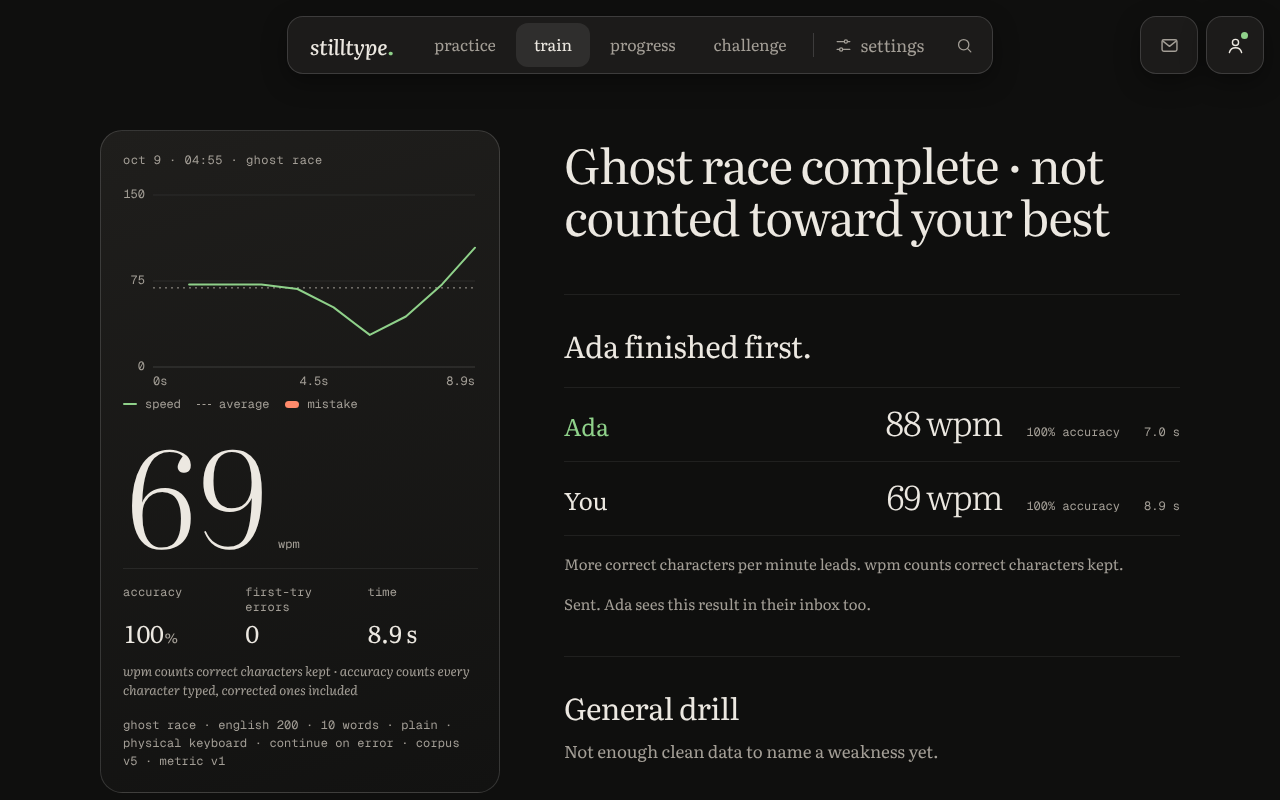
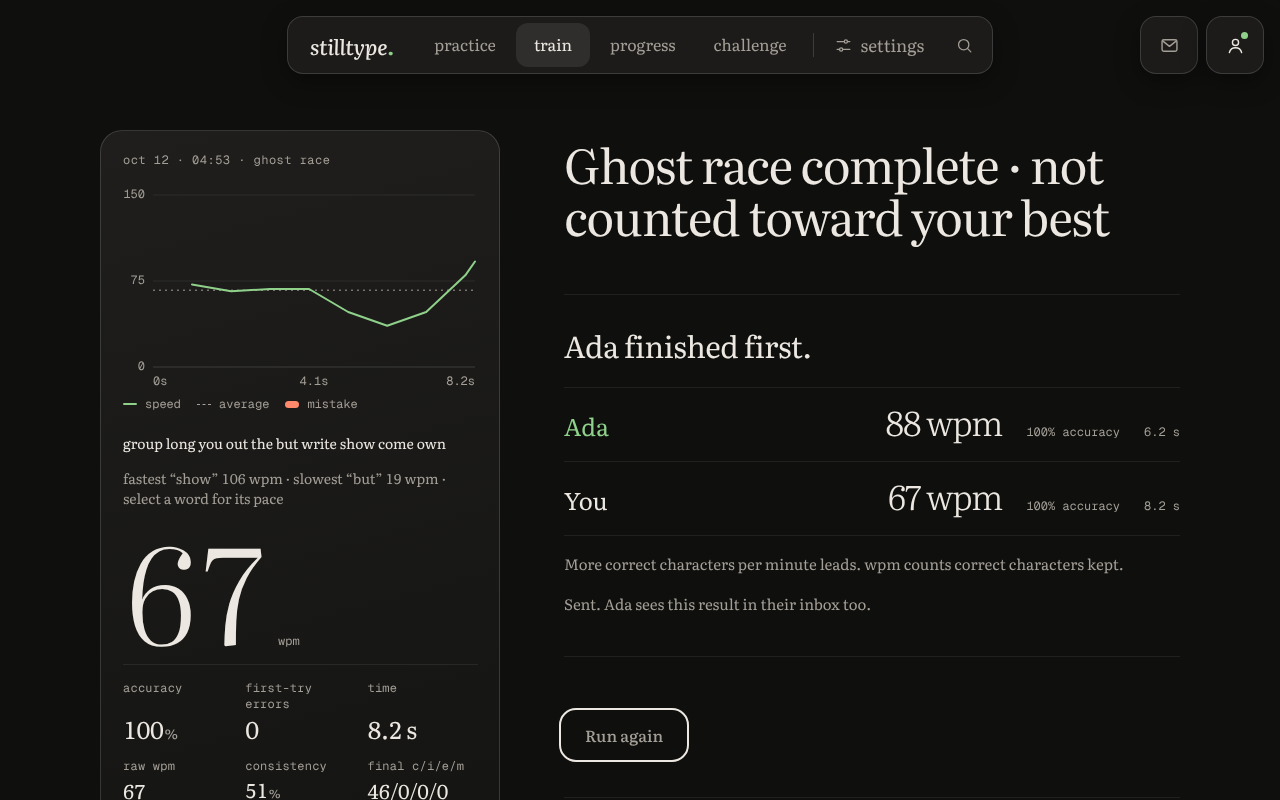
Drop a loading Race when the person moves on; keep ghost races non-comparable
A view change, a new session, the custom editor or a local race now drops a pending Race.
Ghost races join custom text as non-comparable, so they keep only a summary and never evict
practice traces or pattern summaries.

Claude-Session: https://claude.ai/code/session_01SaBNo9RHRaTR8cCUjK1iLD

diff --git a/src/app.js b/src/app.js
@@ -167,6 +167,11 @@ let clearTimer = null;
 // The friend's recorded run being raced (sessionKind 'challenge'), and the run offered to friends.
 let ghostRace = null;
 // The Race still waiting for its challenge, and the offer's friend list still loading (see startGhostRace).
+// A Race click holds only while the person stays where they made it. Each move they make drops it at the
+// one place that move passes through: another view (navigate, which every online room entry goes through),
+// a new practice-surface session (resetSession), a local race player (setupRacePlayer), the custom editor
+// (openCustom) or a run begun (startAttempt). A late reply then never pulls them back into a race.
+// The friend list belongs to the offer on screen: renderGhostOffer drops it when another run replaces it.
 let ghostRequest = null;
 let friendsRequest = null;
 let offerRun = null;
@@ -552,11 +557,13 @@ function configureSessionCopy() {
   $('quote-options').hidden = sessionKind !== 'practice' || prefs.mode !== 'quote';
 }
 
-function resetSession(kind = sessionKind, { focus = false, selectedPassage = null } = {}) {
+function resetSession(kind = sessionKind, { focus = false, selectedPassage = null, keepRace = false } = {}) {
   clearInterval(ticker);
   ticker = null;
   setRunning(false);
   primaryNotice = '';
+  // A session the person starts supersedes a Race still loading; a redraw for a synced profile doesn't.
+  if (!keepRace) ghostRequest = null;
   if (kind === 'challenge' && !ghostRace) kind = 'practice';
   const kindChanged = sessionKind !== kind;
   sessionKind = kind;
@@ -916,7 +923,7 @@ function storeAttempt(completed) {
   const eligibleBest = completed.status === 'complete' && !completed.interrupted && ['test', 'retest'].includes(completed.kind);
   resultBestBefore = profile.bests[key] || null;
   // Traces serve baselines and patterns. A custom passage is neither and can run to thousands of characters,
-  // so only its summary record is kept.
+  // so only its summary record is kept; so is a ghost race's, whose trace is sent from the run in memory.
   if (comparableKind(completed.kind)) profile.attempts.push(completed);
   profile.runs.push(runRecord(completed));
   if (eligibleBest && (!profile.bests[key] || score.wpm > profile.bests[key].wpm)) {
@@ -1038,8 +1045,8 @@ function renderResults(completed, saved) {
     : 'A standalone drill. Finish a practice run to establish a fresh-text retest baseline.';
   $('start-drill').disabled = !counted;
   $('skip-to-retest').disabled = !counted || !baselineAttempt;
-  // Custom text is never mined for targets or kept as a baseline, so its results offer no drill or retest:
-  // the recommendation would come from other runs and the retest would measure a different text.
+  // Custom text and ghost races are never mined for targets or kept as a baseline, so their results offer no
+  // drill or retest: the recommendation would come from other runs and the retest would measure a different text.
   const compared = comparableKind(completed.kind);
   for (const id of ['recommendation-title', 'recommendation-evidence', 'recommendation-list', 'recommendation-meta', 'start-drill', 'skip-to-retest']) $(id).hidden = !compared;
   renderEvidenceList(activeRecommendation.evidence);
@@ -1179,6 +1186,8 @@ function switchView(view) {
 }
 
 function navigate(view) {
+  // Going anywhere drops a Race still loading (see ghostRequest).
+  ghostRequest = null;
   if (view === 'practice') {
     // A custom passage that is ready or under way is practice too, so going to Practice keeps it.
     const current = attempt && (sessionKind === 'practice' || sessionKind === 'custom') && !['complete', 'interrupted'].includes(attempt.status);
@@ -1492,7 +1501,8 @@ function renderDaily() {
 
 // ── Ghost races ───────────────────────────────────────────────────────────
 // A friend's recorded run, raced on the practice surface against a ghost caret that replays their
-// keystrokes (src/ghost-race.js). The run is kind 'challenge': saved like a drill, never a best.
+// keystrokes (src/ghost-race.js). The run is kind 'challenge', non-comparable like custom text: only its
+// summary is kept, and it is never a best.
 
 const GHOST_CONDITION_KEYS = ['mode', 'duration', 'count', 'punctuation', 'numbers', 'quoteLength', 'difficulty', 'wordList',
   'correctionPolicy', 'language', 'corpus', 'metricVersion'];
@@ -1533,8 +1543,8 @@ async function startGhostRace(id) {
   let view = null;
   let failure = null;
   try { view = await getChallenge(session, id); } catch (error) { failure = error; }
-  // A later Race replaces the request and a run begun clears it (startAttempt); an online room opened
-  // meanwhile still keeps the surface.
+  // A later Race replaces the request, and anything else the person does meanwhile drops it (see
+  // ghostRequest). An online room is entered through navigate, so this second check is only a backstop.
   if (ghostRequest !== request) return;
   ghostRequest = null;
   if (onlineRoomFirst()) return;
@@ -1754,6 +1764,8 @@ function startRace() {
 }
 
 function setupRacePlayer() {
+  // A local race set up drops a Race still loading (see ghostRequest).
+  ghostRequest = null;
   race.attempt = createAttempt({ id: uid(), text: race.passage.text, textId: race.passage.id, kind: 'race', conditions: { ...race.conditions } });
   race.startTime = null;
   inbox?.runChanged();
@@ -1944,7 +1956,7 @@ function adoptProfile(data) {
   applyPreferences();
   setModeControls();
   renderHistory();
-  if (sessionKind === 'practice' && attempt?.status !== 'running') resetSession('practice');
+  if (sessionKind === 'practice' && attempt?.status !== 'running') resetSession('practice', { keepRace: true });
 }
 
 // The newer of the device cache and the account row wins; the other side is brought up to date.
@@ -2431,6 +2443,8 @@ function updateCustomState() {
 
 // The panel never opens or closes beside a live run: like the other mode buttons, it restarts the run first.
 function openCustom(open = true) {
+  // Opening or closing the editor drops a Race still loading (see ghostRequest).
+  ghostRequest = null;
   if (attempt?.status === 'running') resetSession(restartKind());
   customOpen = open;
   if (open) {
@@ -2501,7 +2515,7 @@ function inPractice(change) {
 
 function paletteCommands(query) {
   const onOff = (value) => (value ? 'on' : 'off');
-  // During a custom session no test shape is current, only "custom text".
+  // During a custom session or a ghost race no test shape is current (a custom session marks "custom text").
   const shape = (mode, length) => comparableKind(sessionKind) && prefs.mode === mode && (mode === 'quote' || (mode === 'time' ? prefs.duration : prefs.count) === length);
   const commands = [
     ...[['practice', 'practice'], ['results', 'train'], ['progress', 'progress'], ['compete', 'challenge']].map(([view, label]) => ({

diff --git a/e2e/async-ghost-challenge.spec.js b/e2e/async-ghost-challenge.spec.js
@@ -137,11 +137,17 @@ test('a finished run goes to a friend, who races its ghost later, and both see w
     await expect(linPage.locator('#result-delta')).toHaveText('Ghost race complete · not counted toward your best');
     await expect(linPage.locator('#run-card-stamp')).toContainText('ghost race');
     await expect(linPage.locator('#ghost-offer')).toBeHidden();
-    await expect(linPage.locator('#best')).toHaveText('No best yet');
+    await expect(linPage.locator('#best')).toHaveText('Not counted');
+    // Never a baseline or pattern evidence, so no drill or retest is offered from it.
+    await expect(linPage.locator('#start-drill')).toBeHidden();
+    await expect(linPage.locator('#skip-to-retest')).toBeHidden();
     expect(row.result).toBeTruthy();
-    // Saved as its own kind: never a best, so no comparison or progress point either.
+    // Saved as its own kind: never a best, so no comparison or progress point either. Only its summary is
+    // kept, so ghost races never take the place of practice traces.
     await expect.poll(() => supabase.profileFor('lin@stilltype.test')?.runs?.map((run) => run.kind)).toEqual(['challenge']);
     expect(supabase.profileFor('lin@stilltype.test').bests).toEqual({});
+    expect(supabase.profileFor('lin@stilltype.test').attempts).toEqual([]);
+    expect('patterns' in supabase.profileFor('lin@stilltype.test').runs[0]).toBe(false);
     await shot(linPage, testInfo, 'result-dark');
     await scheme(linPage, 'light');
     await shot(linPage, testInfo, 'result-light');
@@ -671,7 +677,8 @@ test('a Race reply that lands after an online room opened starts no ghost race a
   await expect(page.locator('#online-room')).toBeVisible();
   const room = [...supabase.races.rooms.values()][0];
   await letGo(page, reply, 'get', ada.id);
-  await expect(page.locator('#account-feedback')).toHaveText('Leave your online race before starting a ghost race.');
+  // Going to Challenge already dropped the Race, so the late reply asks nothing of Lin.
+  await expect(page.locator('#account-toast')).toBeHidden();
   await expect(page.locator('body')).toHaveAttribute('data-view', 'compete');
   await expect(page.locator('body')).toHaveAttribute('data-session', 'practice');
   await expect(page.locator('#online-room')).toBeVisible();
@@ -706,6 +713,82 @@ test('a Race reply that lands after a practice run began neither interrupts that
   await expect(page.locator('#run-card-stamp')).toContainText('practice');
   await expect(page.locator('#ghost-result')).toBeHidden();
   await expect(page.locator('#ghost-offer')).toBeVisible();
+  expect(ada.result).toBeNull();
+});
+
+// Clicks Race on the toast and holds the challenge's reply; returns its release.
+async function holdRace(page, supabase) {
+  const held = hold(supabase, 'get');
+  await page.locator('#challenge-toast').getByRole('button', { name: 'Race' }).click({ timeout: 12000 });
+  await expect.poll(() => held.length).toBe(1);
+  supabase.challenges.held = null;
+  return held[0];
+}
+
+test('a Race reply that lands after Lin went to Progress leaves Lin there and starts no ghost race', async ({ page, supabase }) => {
+  const lin = supabase.addUser('lin@stilltype.test');
+  const ada = challengeLin(supabase, lin, 'Ada');
+  await openApp(page);
+  await signInWithEmail(page, 'lin@stilltype.test');
+  const reply = await holdRace(page, supabase);
+  await openView(page, 'Progress');
+  await letGo(page, reply, 'get', ada.id);
+  await expect(page.locator('body')).toHaveAttribute('data-view', 'progress');
+  await expect(page.locator('body')).toHaveAttribute('data-session', 'practice');
+  await expect(page.locator('#account-toast')).toBeHidden();
+  // The race is still Lin's to start from the inbox.
+  await page.locator('#inbox-trigger').click();
+  await expect(page.locator('#inbox-list [data-inbox-action="challenge"]')).toHaveCount(1);
+  expect(ada.result).toBeNull();
+});
+
+test('a Race reply that lands after Lin restarted the practice test leaves that practice session', async ({ page, supabase }) => {
+  const lin = supabase.addUser('lin@stilltype.test');
+  const ada = challengeLin(supabase, lin, 'Ada');
+  await openApp(page);
+  await signInWithEmail(page, 'lin@stilltype.test');
+  await chooseWords(page, 10);
+  const reply = await holdRace(page, supabase);
+  await page.locator('#restart-button').click();
+  const text = await passageText(page);
+  await letGo(page, reply, 'get', ada.id);
+  await expect(page.locator('body')).toHaveAttribute('data-view', 'practice');
+  await expect(page.locator('body')).toHaveAttribute('data-session', 'practice');
+  await expect(page.locator('#accessible-passage')).toHaveText(text);
+  await typeInto(page, text, '#typing-input', { delay: 90 });
+  await expect(page.locator('body')).toHaveAttribute('data-view', 'results');
+  await expect(page.locator('#run-card-stamp')).toContainText('practice');
+  await expect(page.locator('#ghost-result')).toBeHidden();
+  expect(ada.result).toBeNull();
+});
+
+test('a Race reply that lands after Lin opened the custom editor or set up a local race leaves either in place', async ({ page, supabase }) => {
+  const lin = supabase.addUser('lin@stilltype.test');
+  const ada = challengeLin(supabase, lin, 'Ada');
+  await openApp(page);
+  await signInWithEmail(page, 'lin@stilltype.test');
+  let reply = await holdRace(page, supabase);
+  await page.locator('#mode-custom').click();
+  await expect(page.locator('#custom-options')).toBeVisible();
+  await letGo(page, reply, 'get', ada.id);
+  await expect(page.locator('#custom-options')).toBeVisible();
+  await expect(page.locator('#custom-text')).toBeFocused();
+  await expect(page.locator('body')).toHaveAttribute('data-session', 'practice');
+  // On Challenge: a Race from the inbox, then a local race set up while it loads.
+  await openView(page, 'Challenge');
+  await page.locator('#challenge-local').click();
+  const held = hold(supabase, 'get');
+  await page.locator('#inbox-trigger').click();
+  await page.locator('#inbox-list [data-inbox-action="challenge"]').click();
+  await expect.poll(() => held.length).toBe(1);
+  supabase.challenges.held = null;
+  [reply] = held;
+  await page.locator('#start-local-race').click();
+  await expect(page.locator('#race-stage')).toBeVisible();
+  await letGo(page, reply, 'get', ada.id);
+  await expect(page.locator('body')).toHaveAttribute('data-view', 'compete');
+  await expect(page.locator('#race-stage')).toBeVisible();
+  await expect(page.locator('body')).toHaveAttribute('data-session', 'practice');
   expect(ada.result).toBeNull();
 });
 

diff --git a/tests/insights.test.js b/tests/insights.test.js
@@ -1,7 +1,7 @@
 import test from 'node:test';
 import assert from 'node:assert/strict';
 import { CORPUS_VERSION, completeAttempt, conditionKey, createAttempt, quoteCorpus, selectPassage } from '../src/typing.js';
-import { MAX_NON_COMPARABLE_RUNS, dailyPassage, filterRuns, recurringTargets, retainRuns, runRecord, trendRun, weeklyChange } from '../src/insights.js';
+import { MAX_NON_COMPARABLE_RUNS, MAX_PATTERN_RUNS, comparableKind, dailyPassage, filterRuns, recurringTargets, retainRuns, runRecord, trendRun, weeklyChange } from '../src/insights.js';
 
 const conditions = { mode: 'words', count: 25, wordList: '1k', corpus: CORPUS_VERSION };
 const run = (id, overrides = {}) => ({ id, at: '2026-09-29T12:00:00Z', status: 'complete', kind: 'test',
@@ -115,6 +115,25 @@ test('custom runs keep their own budget and never displace practice history', ()
   const mixed = Array.from({ length: 200 }, (_, i) => (i % 3 ? run(`m${i}`, { kind: 'custom', patterns: undefined }) : run(`m${i}`)));
   const order = retainRuns(mixed).map((r) => Number(r.id.slice(1)));
   assert.deepEqual(order, [...order].sort((a, b) => a - b));
+});
+
+test('ghost races keep no trace or patterns and never displace practice evidence', () => {
+  const typed = (id, kind) => {
+    const attempt = createAttempt({ id, text: 'the then', kind, conditions });
+    [...'the then'].forEach((char, i) => attempt.events.push({ type: 'insert', text: char, position: i, accepted: true, offsetMs: i * 120 }));
+    return completeAttempt(attempt, { endedAt: 1000 });
+  };
+  const practice = typed('practice', 'test');
+  const races = Array.from({ length: 30 }, (_, i) => typed(`g${i}`, 'challenge'));
+  // storeAttempt keeps a trace only for a comparable kind, then saveProfile keeps the newest 24.
+  const traces = [practice, ...races.filter((race) => comparableKind(race.kind))].slice(-24);
+  assert.deepEqual(traces.map((attempt) => attempt.id), ['practice']);
+  // 120 practice runs fill the pattern window; 30 ghost races after them leave every one its patterns.
+  const records = [...Array.from({ length: MAX_PATTERN_RUNS }, (_, i) => run(`p${i}`)), ...races.map((race) => runRecord(race))];
+  const kept = retainRuns(records);
+  assert.deepEqual(kept.filter((r) => r.kind === 'test').map((r) => r.patterns.length), Array(MAX_PATTERN_RUNS).fill(1));
+  assert.equal(kept.filter((r) => r.kind === 'challenge').length, 30);
+  assert.equal(kept.some((r) => r.kind === 'challenge' && 'patterns' in r), false);
 });
 
 test('a profile with only comparable runs is retained exactly as before', () => {

diff --git a/src/insights.js b/src/insights.js
@@ -3,10 +3,11 @@ import { conditionKey, replayAttempt, summarizePatterns, textId } from './typing
 export const MAX_RUN_SUMMARIES = 1000;
 export const MAX_PATTERN_RUNS = 120;
 
-// Run kinds that are never compared, used as a baseline or mined for patterns (custom text). They keep no
-// trace or pattern evidence and are retained on their own small budget, so they can never push comparable
-// history out of the summary and pattern windows. Extend this set for any other kind like that.
-export const NON_COMPARABLE_KINDS = new Set(['custom']);
+// Run kinds that are never compared, used as a baseline or mined for patterns (custom text, and a ghost race
+// against a friend's recorded run). They keep no trace or pattern evidence and are retained on their own
+// small budget, so they can never push comparable history out of the summary and pattern windows. Extend
+// this set for any other kind like that.
+export const NON_COMPARABLE_KINDS = new Set(['custom', 'challenge']);
 export const MAX_NON_COMPARABLE_RUNS = 50;
 export const comparableKind = (kind) => !NON_COMPARABLE_KINDS.has(kind);
 

diff --git a/docs/online-races.md b/docs/online-races.md
@@ -23,10 +23,10 @@ The migration is `supabase/migrations/20261007031500_race_friends_rematch.sql`; 
 ## Ghost races (9 October 2026)
 
 - **Sending.** Under a finished, uninterrupted practice, retest or daily run, a signed-in user sees "Challenge a friend with this run". They pick someone from their friend list and the name the friend will see, then send. The run goes as its text, its test conditions and a compact keystroke trace: `{"v":1,"k":keys,"t":[ms since the previous key],"e":end ms}`, with one printable character per insertion and U+0008 per deletion (blocked keys change nothing and are left out). A slip onto a character a passage can't contain, such as ö or a no-break space, is sent as an ASCII stand-in that never matches the letter expected there, so the replay scores it the same. An emoji fills two places in the replay, so a run with one is not offered, and a race reply with one says why it wasn't sent. A word, quote or daily run sends its whole passage; a timed run's passage is cut at a word boundary past the sender's furthest key, with room for 400 wpm over the same clock. Drills, ghost race replies and runs that lost focus or used IME are never offered. A friend saved by email is resolved to an account when the challenge is sent; as with typed invitations, the reply does not say whether the email has one.
-- **Racing.** The friend gets an inbox entry (and a toast, held during a run) with Race. The race uses the practice surface and the sender's conditions, so the same finish rule applies: a word, quote or daily passage ends at its end, a timed run on its clock. A periwinkle ghost caret replays the sender's keys from the friend's first key, stepping from key to key; it is presentational and never scored, and it keeps stepping under reduced motion because it is the race itself (like a race progress bar), with no transition. Esc restarts. The first finish without a break is sent; an interrupted try shows "Interrupted, so not sent." with Race again. On a slow connection a reply that lands late never acts over anything newer: only the latest Race starts, and not over a run begun or an online room opened while it loaded; a finish, send or friend list redraws only what it was asked for; and a list read before a finish was stored never offers that race again.
+- **Racing.** The friend gets an inbox entry (and a toast, held during a run) with Race. The race uses the practice surface and the sender's conditions, so the same finish rule applies: a word, quote or daily passage ends at its end, a timed run on its clock. A periwinkle ghost caret replays the sender's keys from the friend's first key, stepping from key to key; it is presentational and never scored, and it keeps stepping under reduced motion because it is the race itself (like a race progress bar), with no transition. Esc restarts. The first finish without a break is sent; an interrupted try shows "Interrupted, so not sent." with Race again. On a slow connection a reply that lands late never acts over anything newer: only the latest Race starts, and only while the person stays put: going to another view, a new session (Restart, a mode or length, a drill, retest, daily, local race or online room), opening the custom editor or beginning a run while it loads drops it; a finish, send or friend list redraws only what it was asked for; and a list read before a finish was stored never offers that race again.
 - **Result.** The lead goes to more correct characters kept per minute. Under stop on error both runs end on the exact text, so that is the earlier finish; under continue on error a quick finish full of mistakes doesn't beat a clean one; a timed race compares the correct characters kept on the same clock. Both wpm are always shown. The friend's results view shows the two rows and the rule; both inboxes get one line such as "Lin raced your 25-word run: Lin finished first · you 72 wpm, Lin 65 wpm." ("typed faster" when the leader ended later, "typed further" on a timed run). The sender hears it by toast on the next inbox poll. A result is delivered once per device: clearing the inbox does not bring it back. The inbox keeps every open ghost race and every result from the last week however many there are, and the newest thirty other entries; a result older than a week that this device never showed stays out of it.
 - **Scoring and limits.** The service replays each trace with metric v1 (`race_private.trace_score`, mirrored by `scoreTrace` in `src/ghost-race.js`; both work in double precision and round half up like `Math.round`, and both tests pin the same numbers, including half-way cases) and stores only the scores for the reply. It refuses unreadable traces, more than 6,000 keys or 64 KB, more than a hundred keys a second, an unfinished passage, a timed run off its clock, text outside 10–4,000 printable ASCII characters, conditions with any key or value the app doesn't send (a timed run must say so, on its own clock), and a recipient not on the sender's own list. The recipient's app checks a received row's conditions the same way (`challengeConditions`) and refuses to race one it can't set up again rather than trust it. The first reply stands: finishing again (a retry after a lost reply) returns the stored result and changes nothing. The browser makes one request id per run and friend and repeats it on a retry, so a send whose reply was lost is stored once and counts once. Each sender may send 20 challenges an hour and keep 30 waiting. Challenges expire seven days after sending; rows are deleted a month after expiry, opportunistically when anyone sends one. A trace is still browser data, so results stay friendly and unranked.
-- **Kind.** A ghost race run is saved like a drill as kind `challenge`: never a personal best, never in Progress trends, comparable retests, recurring targets or recommendation evidence. Its text id is worked out from the text (a corpus quote's own id, a daily text's id, or the id of exactly that text), never taken from the sender, and is marked seen, so a quote raced here cannot later count as fresh. Starting one ends a drill-and-retest cycle in progress, as the daily does. Practice-time features (a daily goal, a break notice) could reasonably count it, since it is real uninterrupted typing; none exists on master yet.
+- **Kind.** A ghost race run is saved as kind `challenge`, which `src/insights.js` lists as non-comparable, as custom text is: never a personal best, never in Progress trends, comparable retests, recurring targets or recommendation evidence. Only its summary record is kept, on the 50-run budget for non-comparable runs, with no keystroke trace and no pair patterns, so ghost races never push practice traces out of the 24-trace budget or practice runs out of the 120-run pattern window. The trace sent to the service is built from the finished run in memory, and Send again reuses it. The footer reads "Not counted" during a ghost race, and its results offer no drill or retest. Its text id is worked out from the text (a corpus quote's own id, a daily text's id, or the id of exactly that text), never taken from the sender, and is marked seen, so a quote raced here cannot later count as fresh. Starting one ends a drill-and-retest cycle in progress, as the daily does. Practice-time features (a daily goal, a break notice) could reasonably count it, since it is real uninterrupted typing; none exists on master yet.
 - **Storage and access.** `race_private.challenges` holds the sender, the recipient (null for an email with no account), both names (the sender's label for the friend is never shown to the friend), the text, conditions, clock, the sender's trace and score, the reply's score, `created_at`, `expires_at` and `completed_at`. Row-level security limits direct reads to the two parties, and the column grant leaves out both account ids and the sender's label; browsers have no write privileges. All access goes through `public.challenge_action` (signed-in accounts only), an invoker wrapper over a definer function, whose views never include account ids and include a passage and trace only for one party's `get`. Its inbox list returns every open challenge and every result from the last seven days, however many newer rows there are, then the newest fifty others.
 
 The migration is `supabase/migrations/20261009100000_ghost_challenges.sql`; `supabase/tests/ghost-challenges.sql` covers privileges, RLS for each party and outsiders, trace scoring, conditions, friend-only recipients, email friends, timed runs, single replies, repeated sends and finishes, expiry, cleanup, quotas and the inbox list. It passes with the existing SQL tests against all three race migrations on PostgreSQL 16 with a minimal `auth` / `extensions` stub. **It has not been applied to the project.** Apply it before shipping the frontend; until then sending reports that ghost races are being set up, and the inbox carries on without them.

diff --git a/HANDOFF.md b/HANDOFF.md
@@ -28,7 +28,7 @@ Product behaviour:
 - Condition-aware bests; drills, challenges and interrupted attempts do not become personal bests.
 - Online two-player challenges via Supabase: account invitations in the Challenge inbox or a shareable guest link, ready states, a synchronized countdown, live progress, reconnection and observed results. Hosts sign in; invited guests need no account. Original shared-keyboard challenges remain under One keyboard.
 - Friends, Race again and the inbox (7 October 2026): a private per-account friend list (saved from an email invite or added after a race) with one-click Challenge; Race again on any closed two-player race, keeping both seats; an envelope inbox beside the account button and an 18-second top-right toast for incoming challenges and rematches. See `docs/online-races.md`.
-- Ghost races (9 October 2026): "Challenge a friend with this run" under a finished practice, retest or daily run sends its text, conditions and a compact keystroke trace to a friend. The friend races it from the inbox within seven days on the practice surface, against a periwinkle ghost caret replaying the sender's keys; both inboxes get who led (more correct characters per minute, so a mistyped dash to the end never wins) and both wpm. Runs are kind `challenge` and stay out of bests, trends, comparisons and pattern evidence. The migration `20261009100000_ghost_challenges.sql` must be applied before release. See `docs/online-races.md`.
+- Ghost races (9 October 2026): "Challenge a friend with this run" under a finished practice, retest or daily run sends its text, conditions and a compact keystroke trace to a friend. The friend races it from the inbox within seven days on the practice surface, against a periwinkle ghost caret replaying the sender's keys; both inboxes get who led (more correct characters per minute, so a mistyped dash to the end never wins) and both wpm. Runs are kind `challenge`, a non-comparable kind like custom text: they stay out of bests, trends, comparisons and pattern evidence, and keep only a summary record on the non-comparable budget, so they never displace practice traces or pattern summaries. The migration `20261009100000_ghost_challenges.sql` must be applied before release. See `docs/online-races.md`.
 - Typed history-clear confirmation with immediate Undo.
 
 Shipped visual system (Afterimage):
